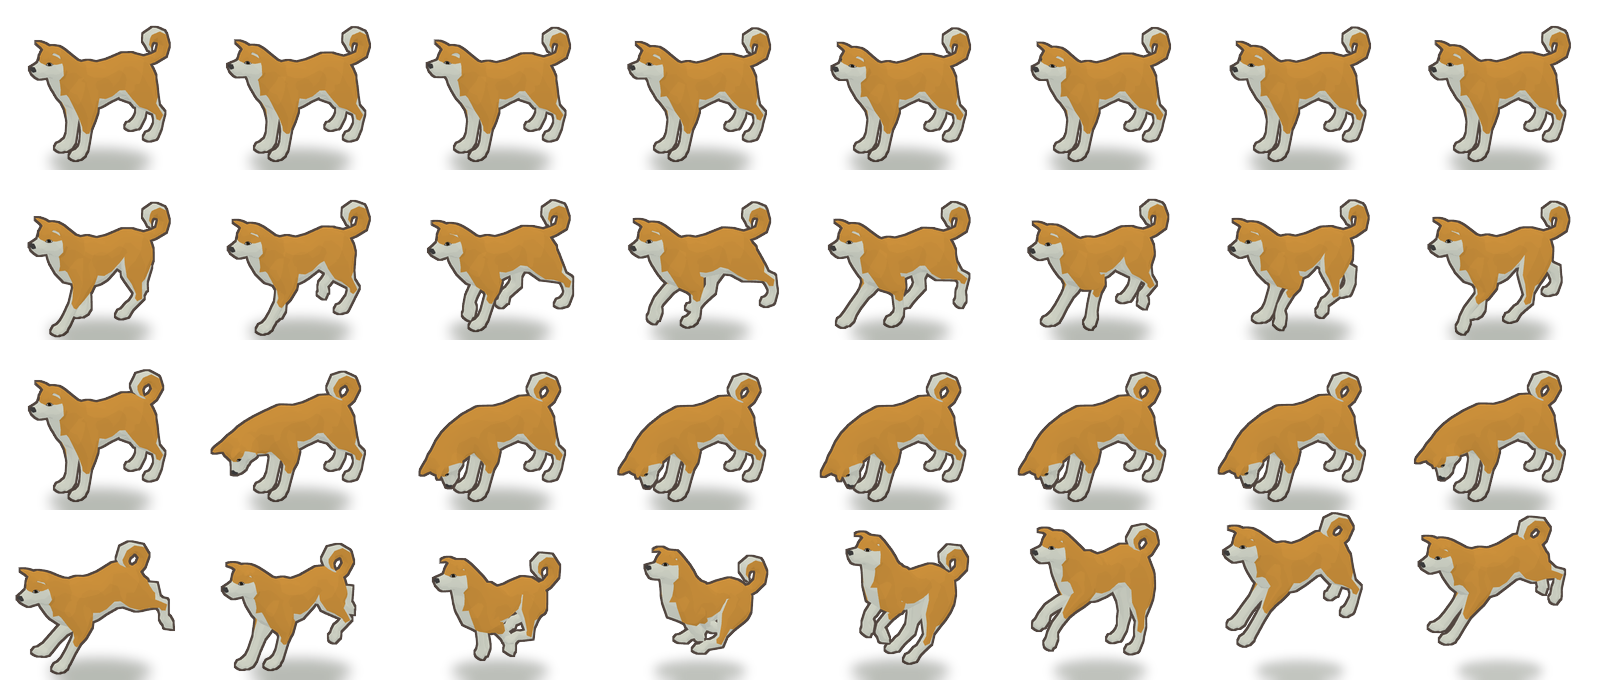
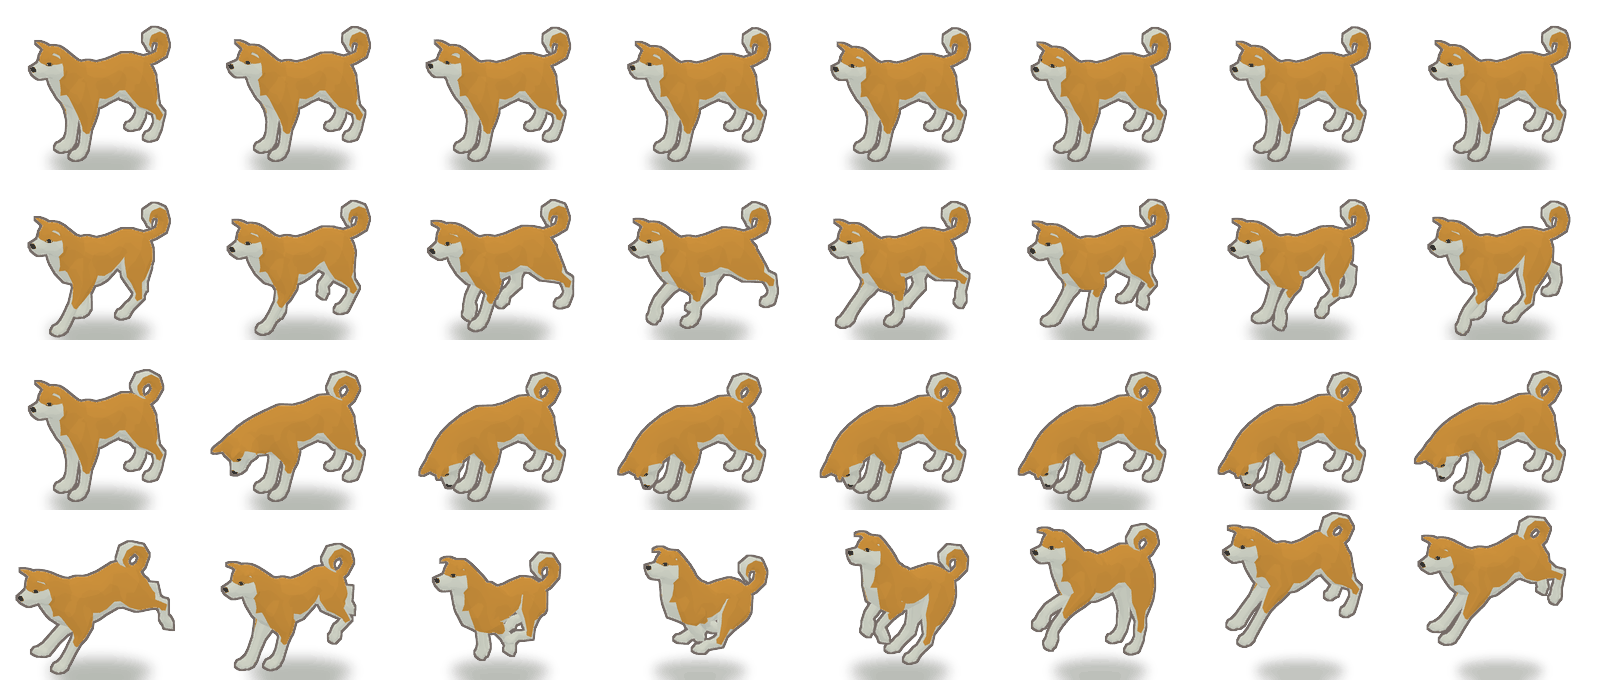
perf: long-lived browser cache for versioned JS/CSS (immutable, 1 year) and images (1 day, ETag kept); recompress 18 heavy PNGs (animal sprite sheets, city and farm props) with an alpha-aware palette, farm page 4.1 MB → 2.2 MB with no visible change

diff --git a/internal/server/static.go b/internal/server/static.go
@@ -124,8 +124,7 @@ func (s *staticFiles) ServeHTTP(w http.ResponseWriter, r *http.Request) {
 	}
 	h := w.Header()
 	h.Set("ETag", etag)
-	// Luôn hỏi lại server (rẻ: 304 khi không đổi); riêng ảnh còn được service worker giữ sẵn.
-	h.Set("Cache-Control", "no-cache")
+	h.Set("Cache-Control", cacheControl(name, etag, r.URL.Query().Get("v")))
 	h.Add("Vary", "Accept-Encoding")
 	if gz, ok := s.gz[name]; ok && r.Header.Get("Range") == "" && strings.Contains(r.Header.Get("Accept-Encoding"), "gzip") {
 		if match := r.Header.Get("If-None-Match"); match != "" && strings.Contains(match, etag) {
@@ -145,6 +144,22 @@ func (s *staticFiles) ServeHTTP(w http.ResponseWriter, r *http.Request) {
 		return
 	}
 	s.files.ServeHTTP(w, r) // FileServer tự trả 304 khi If-None-Match khớp ETag đã đặt
+}
+
+// cacheControl chọn thời gian trình duyệt (và Cloudflare) được giữ file:
+//   - js / css có ?v= đúng phiên bản hiện tại: giữ 1 năm, không hỏi lại (đổi nội dung thì URL đổi theo);
+//   - ảnh, font, âm thanh: giữ 1 ngày rồi hỏi lại bằng ETag (đổi ảnh mà giữ tên thì có thể thấy ảnh cũ tối đa 1 ngày);
+//   - HTML, js / css không có hoặc sai phiên bản, json và file chữ khác: luôn hỏi lại (304 khi không đổi).
+func cacheControl(name, etag, v string) string {
+	switch path.Ext(name) {
+	case ".js", ".css":
+		if v != "" && strings.HasPrefix(strings.Trim(etag, `"`), v) {
+			return "public, max-age=31536000, immutable"
+		}
+	case ".png", ".jpg", ".jpeg", ".gif", ".webp", ".ico", ".woff", ".woff2", ".ttf", ".mp3", ".ogg", ".wav", ".glb", ".gltf", ".bin":
+		return "public, max-age=86400"
+	}
+	return "no-cache"
 }
 
 func contentType(name string) string {

diff --git a/internal/server/static_test.go b/internal/server/static_test.go
@@ -37,7 +37,8 @@ func TestStaticCaching(t *testing.T) {
 		res := get(p, nil)
 		res.Body.Close()
 		etag := res.Header.Get("ETag")
-		if res.StatusCode != 200 || etag == "" || res.Header.Get("Cache-Control") != "no-cache" {
+		want := map[string]string{"/": "no-cache", "/app.js": "no-cache", "/img/logo.png": "public, max-age=86400"}[p]
+		if res.StatusCode != 200 || etag == "" || res.Header.Get("Cache-Control") != want {
 			t.Fatalf("%s: %d etag=%q cc=%q", p, res.StatusCode, etag, res.Header.Get("Cache-Control"))
 		}
 		res = get(p, map[string]string{"If-None-Match": etag, "Accept-Encoding": "gzip"})
@@ -45,6 +46,15 @@ func TestStaticCaching(t *testing.T) {
 		if res.StatusCode != http.StatusNotModified {
 			t.Fatalf("%s: hỏi lại phải 304, được %d", p, res.StatusCode)
 		}
+	}
+
+	// JS / CSS có ?v= đúng phiên bản: giữ 1 năm, không hỏi lại; sai phiên bản (bản cũ) thì vẫn phải hỏi lại.
+	v := strings.Trim(st.etags["app.js"], `"`)[:10]
+	if res := get("/app.js?v="+v, nil); res.Header.Get("Cache-Control") != "public, max-age=31536000, immutable" {
+		t.Fatalf("js có phiên bản: cc=%q", res.Header.Get("Cache-Control"))
+	}
+	if res := get("/app.js?v=deadbeef00", nil); res.Header.Get("Cache-Control") != "no-cache" {
+		t.Fatalf("js sai phiên bản: cc=%q", res.Header.Get("Cache-Control"))
 	}
 
 	// JS được nén gzip khi trình duyệt nhận gzip.

diff --git a/README.md b/README.md
@@ -47,6 +47,11 @@ Mở http://localhost:8080. Server in ra cả địa chỉ LAN để bạn bè c
 (nhớ gắn volume `/data` để không mất ví), hoặc deploy Dockerfile lên Fly.io / Render / Railway, hoặc mở tạm bằng tunnel
 (`cloudflared tunnel --url http://localhost:8080`).
 
+Bộ nhớ đệm của trình duyệt (và Cloudflare): js / css trong trang có `?v=<phiên bản>` được giữ 1 năm (đổi nội dung thì
+URL đổi theo); ảnh, font giữ 1 ngày rồi hỏi lại bằng ETag; HTML, json luôn hỏi lại. Vì vậy **đổi nội dung một ảnh mà
+giữ nguyên tên file thì người chơi có thể còn thấy ảnh cũ tối đa 1 ngày** — muốn thấy ngay thì đặt tên file mới.
+Ảnh lớn nên nén lại bằng bảng 256 màu giữ bóng mờ (sprite `pet3d_*` đã nén như vậy, nhẹ hơn khoảng 3 lần).
+
 ## Tài khoản và xu
 
 - Đăng ký bằng **tên đăng nhập + mật khẩu** (tên đăng nhập 3–20 ký tự: chữ không dấu, số, `_`, `.`; không phân biệt hoa thường; mật khẩu ≥ 6 ký tự, băm bcrypt).
